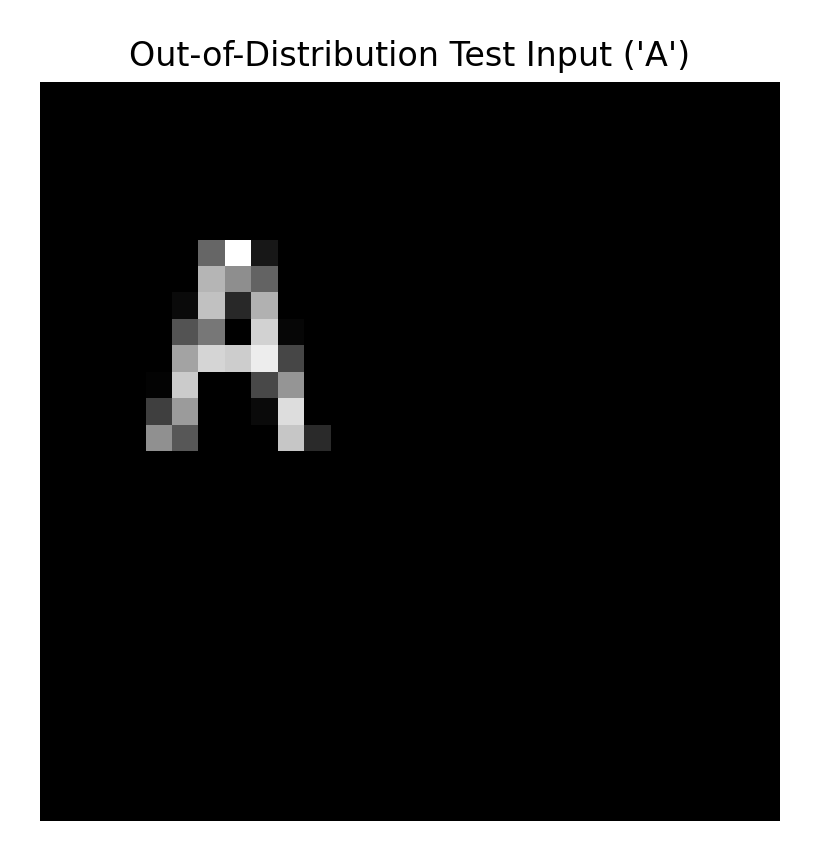
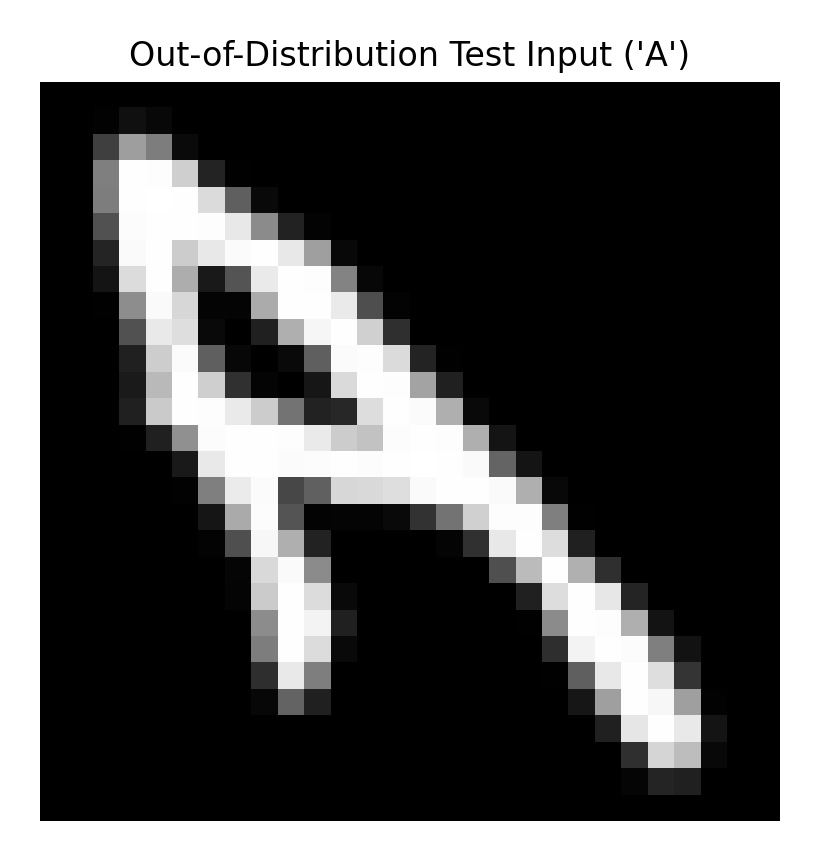
Added test images, a utils function for getting an emnist image for testing, and fixed the ST-05 test

Changed region(s): [[0.0916, 0.151, 0.8547, 0.9361]]

diff --git a/Handwritten Digit Classification/test_files/test_system.py b/Handwritten Digit Classification/test_files/test_system.py
@@ -1,6 +1,6 @@
 import torch
 from captum.attr import Saliency, LayerGradCam
-from test_files.utils import get_model, get_dataloaders, get_device_type, load_trained_model
+from test_files.utils import get_model, get_dataloaders, get_device_type, load_trained_model, get_mnist_image
 import pytest
 import torch.nn.functional as F
 from torchvision import transforms
@@ -8,7 +8,6 @@ from PIL import Image, ImageDraw, ImageFont
 # from sklearn.metrics import confusion_matrix, ConfusionMatrixDisplay
 import matplotlib.pyplot as plt
 import os
-
 # TODO add file name config file, and a global var for the number to use for 02 and 03 to make sure they use the same one
 # TODO add label input to chose what number to show for TC-ST-04
 
@@ -316,26 +315,38 @@ def test_knowledge_limits():
     Expected result: The model's softmax output shows low confidence,
     with no single class having a probability > 0.5.
     """
+    # Setup device and load trained model
     device_type = get_device_type(windows_os=False)
     device = torch.device(device_type)
-    model = get_model()
+
+    # Load trained model
+    current_dir = os.getcwd()
+    project_root = os.path.dirname(current_dir)
+    path_to_saved_model = os.path.join(project_root, "src", "model_state.pt")
+
+    model = load_trained_model(path_to_saved_model, device_type)
+    model.to(device)
     model.eval()
 
-    # Create a blank 28x28 grayscale (mode 'L') image with black background (color=0)
-    # TODO work on making this A bigger maybe?
-    img = Image.new("L", (28, 28), color=0)
-    # Draw a white letter "A"
-    draw = ImageDraw.Draw(img)
-    draw.text((4, 4), "A", fill=255)
+    # ------ Load test image from PNG ------
+    current_dir = os.getcwd()
+    # Move up one directory, go into "test_images" folder, then pick the file
+    parent_dir = os.path.abspath(os.path.join(current_dir, ".."))
+    input_img_path = os.path.join(parent_dir, "test_images", "emnist_letter_A.png")
+    # Uncomment below to show that the model is very confident in predicting 0
+    # input_img_path = os.path.join(current_dir, "..", "test_images", "mnist_0.png")
+    img = Image.open(input_img_path).convert("L")  # ensure grayscale
+
+    # Resize to 28x28 if necessary
+    if img.size != (28, 28):
+        img = img.resize((28, 28))
 
     # Save test image
-    current_dir = os.getcwd()
     test_img_path = os.path.join(current_dir, "TC-ST-05_ood_input_A.png")
     plt.figure()
     plt.imshow(img, cmap="gray")
     plt.title("Out-of-Distribution Test Input ('A')")
     plt.axis("off")
-    # img.save(test_img_path)
     plt.savefig(test_img_path, bbox_inches="tight", pad_inches=0.2, dpi=200)
     plt.close()
 
@@ -383,6 +394,10 @@ def test_knowledge_limits():
     probs_fig_path = os.path.join(current_dir, "TC-ST-05_ood_softmax_distribution.png")
     plt.savefig(probs_fig_path, bbox_inches="tight", pad_inches=0.3, dpi=200)
     plt.close()
+
+    print("Image tensor min/max:", img_tensor.min().item(), img_tensor.max().item())
+    print("Predicted class:", pred_class)
+    print("Max softmax probability:", max_prob)
 
     # Assert that the model is not overly confident on this out-of-distribution input.
     # If any class has > 0.5 probability, the model may be overconfident and fail this test.

diff --git a/Handwritten Digit Classification/test_files/utils.py b/Handwritten Digit Classification/test_files/utils.py
@@ -5,7 +5,8 @@ from torch.utils.data import DataLoader
 from PIL import Image
 import matplotlib.pyplot as plt
 from torchvision.transforms import ToPILImage
-
+import numpy as np
+import pandas as pd
 
 def get_device_type(windows_os=False):
     if windows_os:
@@ -99,8 +100,49 @@ def get_mnist_image(index=1, train_data_set=True, show=True):
         plt.axis("off")
         plt.show()
 
+    img_pil.save(f"mnist_{index}.png")
+
     return img_pil, label
+
+
+def get_emnist_image(csv_path):
+    """
+    Loads EMNIST CSV file (first column = label, next 784 columns = pixels).
+    Returns images (N, 28, 28) and labels (N,)
+
+    Returns the nth image (index) for a given target_label from EMNIST arrays.
+    """
+    df = pd.read_csv(csv_path)
+    labels = df.iloc[:, 0].values
+    images_flat = df.iloc[:, 1:].values
+    images = images_flat.reshape(-1, 28, 28)
+
+    # Label 1 = 'A' in EMNIST Letters split
+    target_label = 1
+    # Get another handwritten 'A' (for example, the 5th 'A')
+    index = 6  # nth_A - you can change this to 0, 1, 2, etc. to get different 'A's
+
+    idx = np.where(labels == target_label)[0]
+    if len(idx) == 0:
+        raise ValueError(f"No examples found for label {target_label}")
+    if index >= len(idx):
+        raise IndexError(f"Only {len(idx)} examples available for label {target_label}")
+    image_array = images[idx[index]]
+
+    img = Image.fromarray(image_array.astype(np.uint8))
+    # Rotate 90° clockwise
+    rotated_img = img.transpose(Image.ROTATE_270)  # ROTATE_270 = rotate right
+
+    rotated_img.save(f"emnist_letter_A_{index}.png")
+    plt.figure(figsize=(2, 2))
+    plt.imshow(rotated_img, cmap='gray')
+    plt.axis('off')
+    plt.show()
 
 
 if __name__ == "__main__":
     get_mnist_image()
+
+    # Update to your local Kaggle CSV path
+    # train_csv = "data/EMNIST/raw/emnist-letters-train.csv"
+    # get_emnist_image(train_csv)
